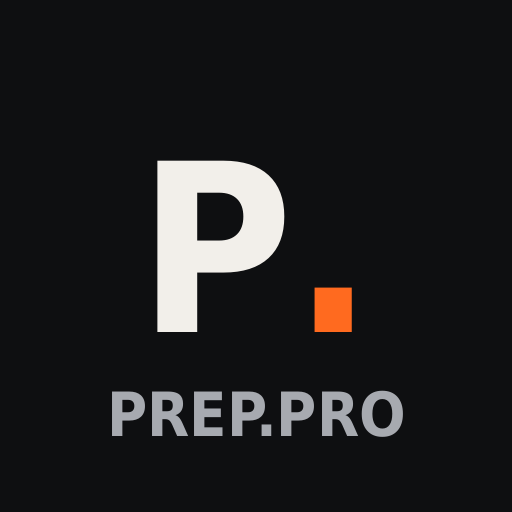
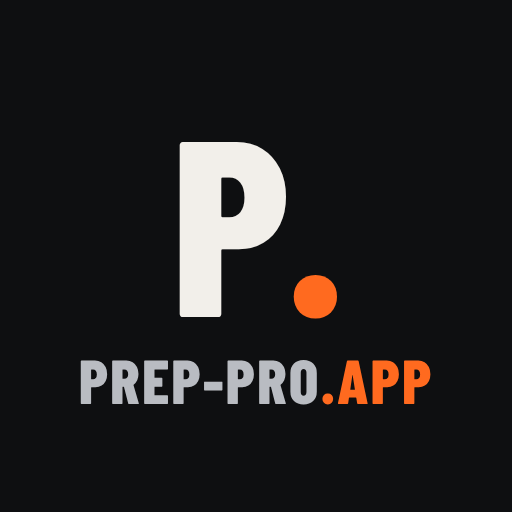
v10.3: ícone e nome da tela de início com prep-pro.app; sem cache na página e no manifesto
Claude-Session: https://claude.ai/code/session_01M2DV43FYresGKCH4kC3tMm

Changed region(s): [[0.1562, 0.6875, 0.8438, 0.875], [0.2812, 0.25, 0.5625, 0.6562], [0.5625, 0.5312, 0.6875, 0.6562]]

diff --git a/index.html b/index.html
@@ -9,8 +9,8 @@
 <meta name="apple-mobile-web-app-title" content="prep-pro.app">
 <meta name="theme-color" content="#0E0F11">
 <link rel="manifest" href="manifest.webmanifest">
-<link rel="apple-touch-icon" href="apple-touch-icon.png">
-<link rel="icon" href="icon-192.png">
+<link rel="apple-touch-icon" href="apple-touch-icon-v2.png">
+<link rel="icon" href="icon-192.png?v=2">
 <title>prep-pro.app · As 5 Marchas da preparação</title>
 <meta name="description" content="Planeje a preparação do seu carro com As 5 Marchas: do sonho ao carro pronto, na ordem certa. Orçamento, gastos, preparadores e dinamômetro num só lugar.">
 <meta property="og:type" content="website">
@@ -228,7 +228,7 @@ const TIPO_COR = { peca: ['#10273A', '#8CCBF7'], mao_de_obra: ['#3A3010', '#FFD6
 const COLORS = ['#9A2A2A','#C9A227','#2D5F94','#2E8B57','#7A4FB5','#D2691E'];
 
 const S = { user: null, view: 'loading', mode: 'entrar', projects: [], cars: [], draft: null, step: 1, P: null, tab: 'marchas', gview: 'lista', phase: null, busy: false, armed: null, form: null, pick: { brand: '', q: '' }, pickOpen: false };
-const APP_VERSION = '10.2';
+const APP_VERSION = '10.3';
 const $app = document.getElementById('app');
 // Barra fina no topo enquanto algo carrega
 document.body.insertAdjacentHTML('afterbegin', '<div id="carregando" aria-hidden="true"></div>');
